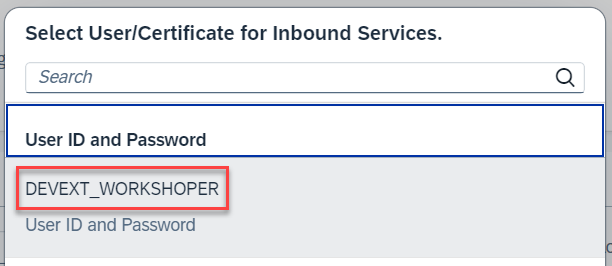
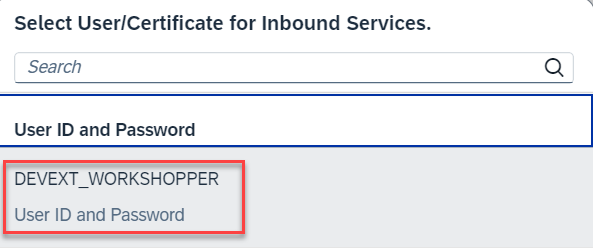
arrangement exercise

Changed region(s): [[0.0, 0.0, 1.0, 1.0]]

diff --git a/topic2/part2/arrangement.md b/topic2/part2/arrangement.md
@@ -36,9 +36,11 @@ In this exercise, you will create a communication arrangement which will expose 
 
 9. Select **DEVEXT_WORKSHOPPER** user.
 
+> We use basic authentication here to simplify the API test in browser. For the access from CAP application we will still use user propagation approach with SAML Assertion.
+
   ![Alt text](img/0410-select-communication-user.png) 
 
-10. Copy the URL for the service and choose **Save** button.
+10.  Copy the URL for the service and choose **Save** button.
 
   ![Alt text](img/0420-save-communication-arrangement.png)
 
@@ -48,4 +50,4 @@ You have created the communication arrangement. Now your new service is fully ac
 
 ## Further reading / Reference Links
 
-???
+- [Communication Management](https://help.sap.com/docs/SAP_S4HANA_CLOUD/0f69f8fb28ac4bf48d2b57b9637e81fa/2e84a10c430645a88bdbfaaa23ac9ff7.html)
